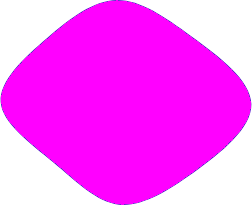
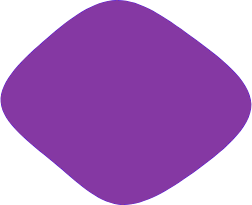
slight theme change

diff --git a/public/styles/css/style.css b/public/styles/css/style.css
@@ -3,7 +3,7 @@
     /* --primary: #6222CC; */
     /* --primary: #c433ff; */
 
-    --primary: #db03dbec;
+    --primary: #8538A3;
 
 
     --secondary: #FBA504;
